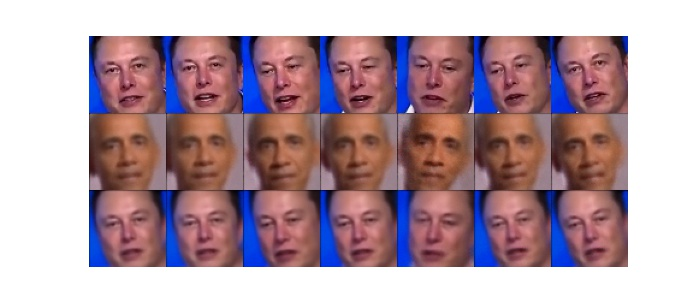
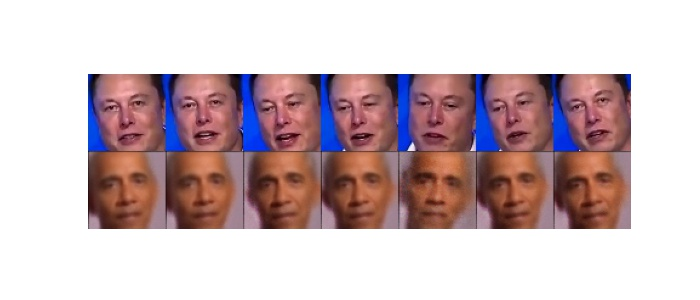
move back to haarcascade based face extraction

diff --git a/inference.py b/inference.py
@@ -22,7 +22,7 @@ def find_landmarks(image_np):
     return d
 
 model = autoencoder.Autoencoder()
-inf = training_utils.deepfake_generator(model_class= model, checkpoint_path = "model.pth")
+inf = training_utils.deepfake_generator(model_class= model, checkpoint_path = "models/model.pth")
 
 preds = []
 target_folder = "data/cropped_frames/elon"
@@ -33,14 +33,9 @@ for i in range(10, 200, 30):
     original_img = cv2.resize(cv2.imread(path), (64,64))
     
     img_b = inf.inference( image_bgr = original_img , decoder = "B")
-    img_a = inf.inference(image_bgr = original_img , decoder = "A")
+    img_c = (original_img/original_img.max()) * 0.5 + img_b * 0.5
 
-    l = fa.get_landmarks(img_b)  ## need to get landmarks
-    # img_c  = (original_img/original_img.max()).astype(np.float32)
-
-    # img_c[12:-12, 12:-12 , :] = cv2.resize(img_b, (40,40))
-
-    fin = cv2.vconcat([ (original_img/original_img.max()).astype(np.float32),img_b, img_a])
+    fin = cv2.vconcat([ (original_img/original_img.max()).astype(np.float32),img_b, ])
     preds.append(fin)
 
 

diff --git a/train.py b/train.py
@@ -9,7 +9,7 @@ import torch
 import torch.nn as nn
 from torch import nn, optim
 
-batch_size = 32
+batch_size = 16
 
 train_loader_a = train_loader_utils.create_dataloader(image_folder = "data/cropped_frames/elon", batch_size = batch_size)
 train_loader_b = train_loader_utils.create_dataloader(image_folder = "data/cropped_frames/obama", batch_size= batch_size)  
@@ -37,13 +37,13 @@ trainer =  training_utils.deepfake_trainer(
 
 # trainer.train(
 #     num_steps = 1000,
-#     save_path= "model.pth"
+#     save_path= "models/model.pth"
 # )
 
-# trainer.train(
-#     num_steps = 1000,
-#     checkpoint_path = "model.pth",
-#     save_path= "model.pth"
-# )
+trainer.train(
+    num_steps = 2000,
+    checkpoint_path = "models/model.pth",
+    save_path= "models/model.pth"
+)
 
 
